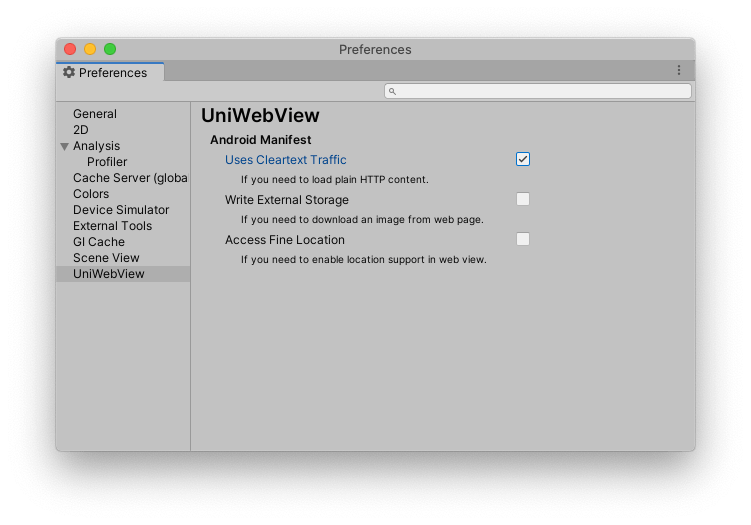
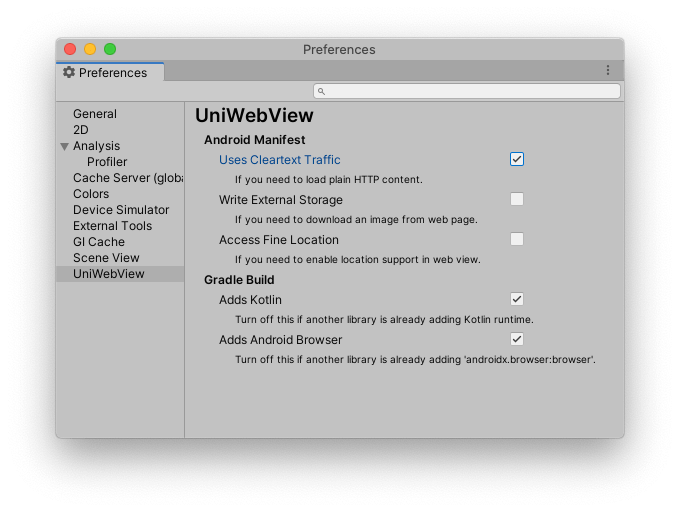
Add doc

diff --git a/docs/guide/installation.md b/docs/guide/installation.md
@@ -26,9 +26,16 @@ UniWebView uses [Gradle](https://docs.unity3d.com/Manual/android-gradle-overview
 From Unity 2019.3, the "Internal" is not an option in Unity anymore.
 :::
 
-After imported, you can open the Unity Preferences panel (**Unity → Preferences**) to configure some necessary permissions. UniWebView uses a post-build script to modify the gradle project and "AndroidManifest.xml" file for the exported Android project.
+After imported, you can open the Unity Preferences panel (**Unity → Preferences**) to configure some necessary permissions. In most cases, there is no need to adjust them and your project should
+build and run well. This panel provides a quick way to customize how UniWebView should adjust some behaviors or dependencies installation.
+
+UniWebView uses a post-build script to modify the gradle project and "AndroidManifest.xml" file for the exported Android project.
 
 ![](/images/preferences.png)
+
+### Android Manifest
+
+Settings in this section will be used to adjust the final `AndroidManifest.xml` file of the exported project.
 
 #### Uses Cleartext Traffic
 
@@ -41,6 +48,21 @@ Add `WRITE_EXTERNAL_STORAGE` permission to the "AndroidManifest.xml". It enables
 #### Access Fine Location
 
 Add `ACCESS_FINE_LOCATION` permission to the "AndroidManifest.xml". It enables the web view to use the location information. To get the location actually, you also need to call [`LocationService.Start`](https://docs.unity3d.com/ScriptReference/LocationService.Start.html) before you open a web page.
+
+### Gradle Build
+
+Settings in this section will be used to modify the `build.gradle` file of the exported project.
+
+#### Adds Kotlin
+
+Whether Kotlin runtime should be added to the project. UniWebView for Android is written in Kotlin and you need the runtime in your project to run the code. It is on by default.
+If any other packages of your project is already adding this, you can opt-out this option to skip adding Kotlin to the project.
+
+#### Adds Android Browser
+
+Whether the [androidx.browser package](https://developer.android.com/jetpack/androidx/releases/browser) should be added to the project.
+UniWebView uses some features in that package. It is on by default.
+If any other packages of your project is already adding this, you can opt-out this option to skip adding Kotlin to the project.
 
 ## Restarting Unity
 
